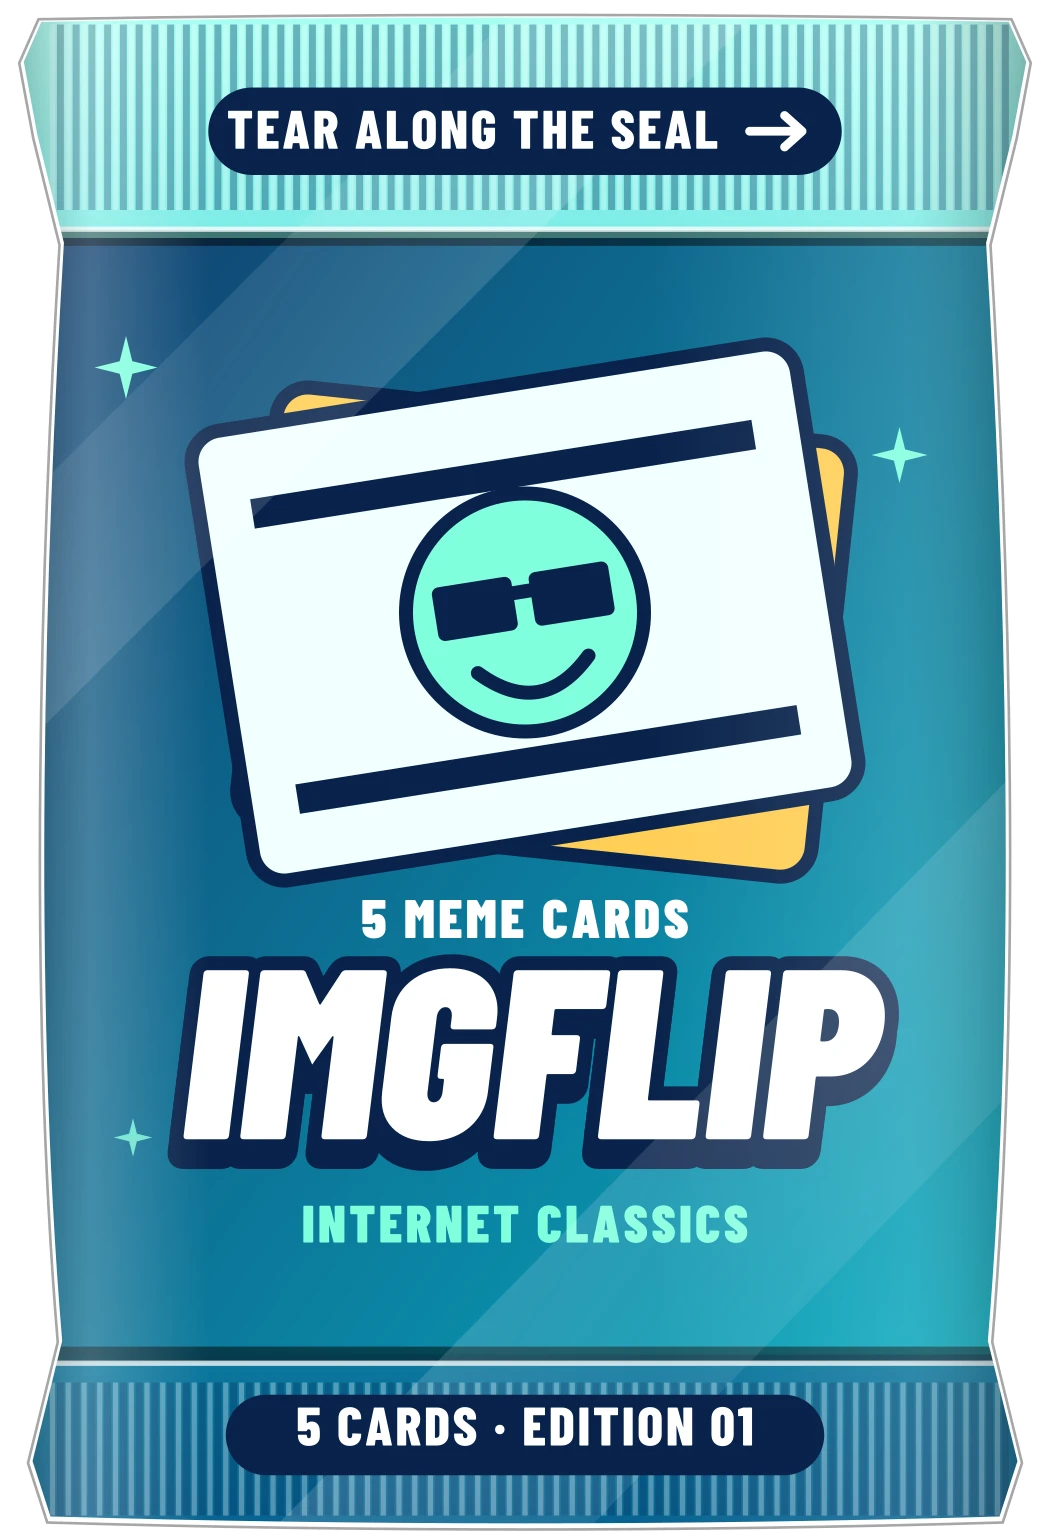
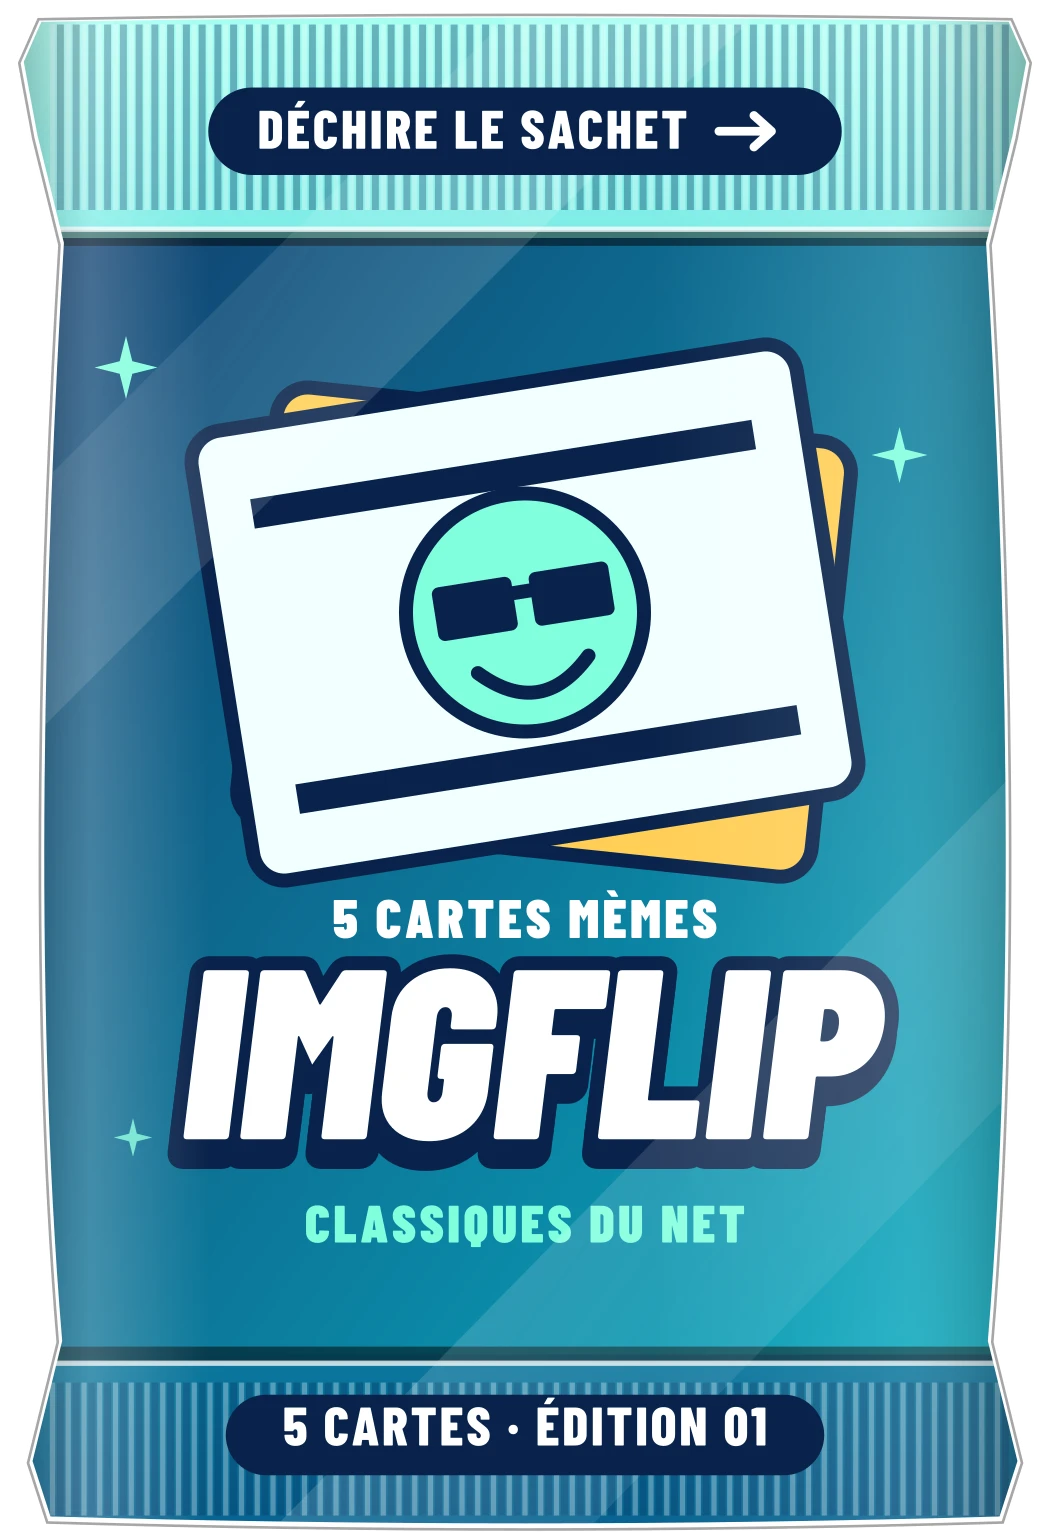
Sachets : les WebP suivent le dessin français
Main a remplacé les SVG à l'écran par des WebP (D-166) pour que le sachet ne
soit plus re-rastérisé à chaque repeinture. Le lot mono-sachet, lui, avait
redessiné les SVG. Les deux se rejoignent ici : les SVG portent les textes
français, `scripts/build-pack-webp.mjs` les reconvertit, et tout ce qui affiche
un sachet (accueil, ouverture, classeur MEMES, Imgflip, déchirure) pointe sur
les WebP. Le seul SVG restant à l'écran est celui du Paquet Scène, qui n'en a
jamais eu d'autre.

diff --git a/src/components/pack-tear.tsx b/src/components/pack-tear.tsx
@@ -213,7 +213,7 @@ export function PackTear({
   const boundary = edge.length > 1
     ? edge.map((point) => `${point.x}% ${point.y}%`).join(", ")
     : "0% 15.45%, 100% 15.45%";
-  const artwork = customArtwork ?? (kind === "scene" ? "/packs/scene-opening.svg" : "/packs/live-opening.svg");
+  const artwork = customArtwork ?? (kind === "scene" ? "/packs/scene-opening.svg" : "/packs/live-opening.webp");
   // La palette de la scène et des dos de carte suit le sachet ouvert (booster-continuity.css).
   const universe = customArtwork?.includes("vault") ? "vault" : customArtwork?.includes("memes") ? "memes" : customArtwork?.includes("imgflip") ? "imgflip"
     : kind === "live" ? "live" : undefined;

diff --git a/src/components/meme-deck.tsx b/src/components/meme-deck.tsx
@@ -129,7 +129,7 @@ export function MemeDeck() {
       <p className="meme-credit">Cartes MyMemeCards et modèles Imgflip. Sources indiquées sur les fiches.</p>
     </section>
     <MemeBoosterOpening booster={booster} />
-    <MemeBoosterOpening booster={imgflipBooster} artwork="/packs/imgflip-opening.svg" />
+    <MemeBoosterOpening booster={imgflipBooster} artwork="/packs/imgflip-opening.webp" />
     {selected ? <dialog className="meme-dialog meme-inspect" ref={inspectRef} onClose={() => setSelected(null)}
       aria-label={"Carte " + selected.name}>
       <button className="meme-close" type="button" onClick={() => setSelected(null)} aria-label="Fermer"><X aria-hidden="true" /></button>

diff --git a/e2e/pack-tear.spec.ts b/e2e/pack-tear.spec.ts
@@ -493,7 +493,7 @@ test("CSS-only pouch keeps its printed sachet and extraction usable", async ({ p
   expect(panel?.height).toBeGreaterThan(500);
   await expect(page.locator(".opening-loader")).toHaveCount(0);
   await expect(dialog.locator(".foil-printed-art")).toHaveCount(2);
-  await expect(dialog.locator('.foil-printed-art[src="/packs/live-opening.svg"]')).toHaveCount(2);
+  await expect(dialog.locator('.foil-printed-art[src="/packs/live-opening.webp"]')).toHaveCount(2);
   await expect(dialog.locator("canvas")).toHaveCount(0);
   await expect(dialog.locator(".booster-tear-handle")).toHaveCount(0);
   await expect(dialog.locator(".booster-premium-gesture")).toHaveCount(0);

diff --git a/src/components/meme-booster-opening.tsx b/src/components/meme-booster-opening.tsx
@@ -16,7 +16,7 @@ type OpeningControls = Pick<MemeBooster, "copies" | "presenting" | "prepared" | 
   commit: () => void | Promise<void>;
 };
 
-export function MemeBoosterOpening({ booster, artwork = "/packs/memes-opening.svg" }: { booster: OpeningControls; artwork?: string }) {
+export function MemeBoosterOpening({ booster, artwork = "/packs/memes-opening.webp" }: { booster: OpeningControls; artwork?: string }) {
   const { opening, copies, presenting, prepared, extracted } = booster;
   const cards = opening?.cards.map((id) => MEME_BY_ID.get(id)).filter((card): card is MemeCard => Boolean(card)) ?? [];
   const revealing = Boolean(opening && extracted && cards.length === 5);

diff --git a/src/ecrans-imgflip-booster.test.tsx b/src/ecrans-imgflip-booster.test.tsx
@@ -50,7 +50,7 @@ describe("le sachet du Drop n'a plus de carrousel d'univers", () => {
     expect(document.querySelector('.booster-carousel')?.getAttribute("data-universe")).toBe("live");
     expect(document.querySelector(".booster-switcher")).toBeNull();
     expect(document.querySelectorAll(".booster-neighbor")).toHaveLength(0);
-    expect(document.querySelector(".pack-stage img")?.getAttribute("src")).toContain("live-opening.svg");
+    expect(document.querySelector(".pack-stage img")?.getAttribute("src")).toContain("live-opening.webp");
   });
 
   it("un glissé ne change plus d'univers et n'ouvre rien", async () => {

diff --git a/src/components/meme-deck.css b/src/components/meme-deck.css
@@ -23,7 +23,7 @@
   transform: translateX(-50%); border-radius: 50%; background: rgb(0 0 0 / .42); filter: blur(14px); }
 .meme-pack-object {
   position: relative; width: min(54vw, 215px); aspect-ratio: 600 / 880;
-  background: url('/packs/memes-opening.svg') center / 100% 100% no-repeat;
+  background: url('/packs/memes-opening.webp') center / 100% 100% no-repeat;
   filter: drop-shadow(0 20px 25px rgb(0 0 0 / .65));
   transform: rotateY(-7deg) rotateX(3deg);
   animation: meme-pack-idle 4.8s ease-in-out infinite;
